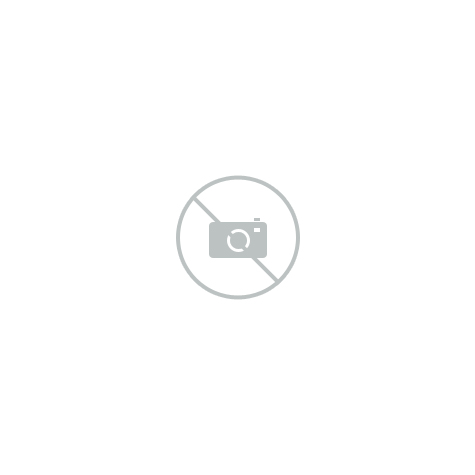
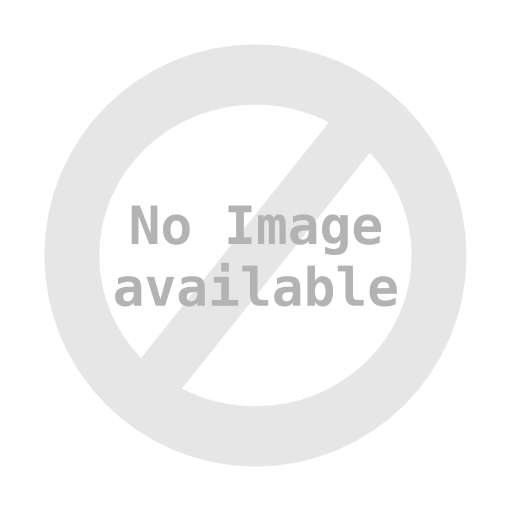
add image loader

diff --git a/cms/_lib/pages/asset/assetCategory_detail.js b/cms/_lib/pages/asset/assetCategory_detail.js
@@ -30,6 +30,8 @@ this.main.requestMainList = function(data){
 	if(!data){
 		var data = new Object({limit:limit});
 	}
+	$("div.mainNotification").removeClass("hidden");
+	$("div.mainNotification").html("<i class='fa fa-spin fa-spinner'></i> Retrieving Asset Detail..");
 	helper_API.sendXHR({
 		action:"asset get",
 		path:"/assets/"+id,
@@ -43,15 +45,15 @@ this.main.getList_handler = function(result){
 	try{
 		result = JSON.parse(result);
 	}catch(err){
-		$("div.div_alert").removeClass("hidden");
-		$("div.div_alert").html(result.responseText);
+		$("div.mainNotification").removeClass("hidden");
+		$("div.mainNotification").html(result.responseText);
 	}
 	if(String(result.responseStatus).toUpperCase() == "SUCCESS"){
-		$("div.div_alert").addClass("hidden");
+		$("div.mainNotification").addClass("hidden");
 		this.parseList(result);
 	}else{
-		$("div.div_alert").removeClass("hidden");
-		$("div.div_alert").html(result.responseText);
+		$("div.mainNotification").removeClass("hidden");
+		$("div.mainNotification").html(result.responseText);
 	}
 }
 this.main.parseList = function(data){
@@ -76,13 +78,13 @@ this.main.parseList = function(data){
 	if(data.thumbnail["/"].length>0){
 		for(var i=0; i<data.thumbnail["/"].length; i++){
 			var url = api_url+data.thumbnail.root_path+"/"+escape(data.thumbnail["/"][i]);
-			var thumbnail = "<img src='"+url+"?width=300' class=''/>";
+			var thumbnail = "<img src='"+url+"?height=200' class=''/>";
 			$("div.thumbnailContainer").append(thumbnail);
 		}
 		$('.fotorama').fotorama();
 	}else{
 		var url = "_lib/images/no_image_small.png";
-		var thumbnail = "<img src='"+url+"?width=300' class='assetThumbnailImg'/>";
+		var thumbnail = "<img src='"+url+"?height=200' class='assetThumbnailImg'/>";
 		$("div.thumbnailContainer").append(thumbnail);
 	}
 	
@@ -92,27 +94,34 @@ this.main.parseList = function(data){
 	// Listing files
 	$("input[name='link_download']").val(data.link_download);
 	$("[name=btn-download]").click(this.downloadAll_click_handler.bind(this));
-	
-	var list = this.renderFileList(data.zip["/"],"/");
-	var ctr=0;
-	for(var idx=0; idx<list.length; idx++){
-		ctr++;
-		var $item = $("tr#template-mainList-row").clone();
-		$item.attr("index", "file-"+idx);
-		$item.attr("id", idx);
-		list[idx].src = escape(list[idx].src);
-		$item.attr("src", data.zip.root_path+"/"+escape(list[idx]));
-		$item.find("[colName=index]").attr("width","24");
-		$item.find("[colName=index]").html(ctr);
-		$item.find("[colName=1]").html(list[idx]);
+	if(data.zip["/"]){
+		var list = this.renderFileList(data.zip["/"],"/");
+		var ctr=0;
+		for(var idx=0; idx<list.length; idx++){
+			ctr++;
+			var $item = $("tr#template-mainList-row").clone();
+			$item.attr("index", "file-"+idx);
+			$item.attr("id", idx);
+			list[idx].src = escape(list[idx].src);
+			$item.attr("src", data.zip.root_path+"/"+escape(list[idx]));
+			$item.find("[colName=index]").attr("width","24");
+			$item.find("[colName=index]").html(ctr);
+			$item.find("[colName=1]").html(list[idx]);
+			//
+			$item.find("button[name='btn-assetDownload']").click(this.assetDownload_click_handler.bind(this));
+			//
+			$("table#mainList tbody").append($item);
+		}
+		this.list_table = new ihl0700_cTable();
+		this.list_table.constructor({$table:$("table#mainList")});
+		this.list_table.update();
+	}else{
 		//
-		$item.find("button[name='btn-assetDownload']").click(this.assetDownload_click_handler.bind(this));
-		//
-		$("table#mainList tbody").append($item);
+		$(".fileNotification").removeClass("hidden");
+		$(".fileNotification").html("<span>Unable to render file list: File count exceed 3000 files<br/>Note: You can still download the zip although it will take a while to prepare the zip file.</span>");
+		$("table#mainList").addClass("hidden");
+		console.log(data.zip.error);
 	}
-	this.list_table = new ihl0700_cTable();
-	this.list_table.constructor({$table:$("table#mainList")});
-	this.list_table.update();
 }
 
 this.main.renderFileList = function(obj, folder){

diff --git a/cms/_lib/pages/asset/asset_detail.js b/cms/_lib/pages/asset/asset_detail.js
@@ -187,7 +187,7 @@ this.main.form_reset = function(ev){
 		this.parseFileList(this.initialData.zip);
 		this.parseThumbnail(this.initialData);
 	}else{
-		$("select[name]").val(0);
+		$("select[name]").val("posm");
 		$("input[name]").val("");
 	}
 	$("input, select, textarea").prop("disabled",null);
@@ -317,6 +317,7 @@ this.main.zip_pluploader_complete_handler = function(up, file){
 		$("[name=btn-save],[name=btn-reset]").addClass("hidden");
 	}else{
 		this.show_status(true, "Create asset completed. Create another asset?", $(".submissionResult"));
+		$("[name=btn-create]").removeClass("hidden");
 	}
 }
 
@@ -334,45 +335,6 @@ this.main.form_submit = function(){
 	
 	// Submit asset
 	this.form_submit_asset();
-}
-
-this.main.save_handler = function(result){
-	/*
-	try{
-		var json = JSON.parse(result);
-		$("div.submissionResult").html(json.responseText);
-		var id = $("input[name=id]").val();
-		//
-		if(String(id) == "0" || id == ""){
-			$("div.submissionResult").html("Create asset success");
-			$("[name=btn-create]").removeClass("hidden");
-		}else{
-			$("div.submissionResult").html("Update asset success");
-			//
-			$("input, select, textarea").prop("disabled",null);
-			$("[editable=0]").prop("disabled",1);
-			//
-			$("[name=btn-reset]").removeClass("hidden");
-			$("[name=btn-save]").removeClass("hidden");
-		}
-	}catch(err){
-		$("div.submissionResult").html("Error: "+result.responseText);
-		$("input, select, textarea").prop("disabled",null);
-		$("[editable=0]").prop("disabled",1);
-		$("[name=btn-reset]").removeClass("hidden");
-		$("[name=btn-save]").removeClass("hidden");
-	}
-	$("div.submissionResult").removeClass("hidden");
-	*/
-}
-
-this.main.createAnother_click_handler = function(ev){
-	this.form_reset();
-	//
-	$("div.submissionResult").addClass("hidden");
-	$("[name=btn-create]").addClass("hidden");
-	$("[name=btn-reset]").removeClass("hidden");
-	$("[name=btn-save]").removeClass("hidden");
 }
 
 this.main.uploadFile_click_handler = function(ev){
@@ -400,6 +362,15 @@ this.main.uploadFile_click_handler = function(ev){
 
 this.main.uploadFile_handler = function(result){
 	console.log(result);
+}
+
+this.main.createAnother_click_handler = function(ev){
+	this.form_reset();
+	//
+	$("div.submissionResult").addClass("hidden");
+	$("[name=btn-create]").addClass("hidden");
+	$("[name=btn-reset]").removeClass("hidden");
+	$("[name=btn-save]").removeClass("hidden");
 }
 
 

diff --git a/cms/_lib/pages/asset/assetCategory_get.js b/cms/_lib/pages/asset/assetCategory_get.js
@@ -97,7 +97,6 @@ this.main.requestMainList = function(data){
 	});
 }
 this.main.getList_handler = function(result){
-	console.log(result);
 	try{
 		result = JSON.parse(result);
 	}catch(err){
@@ -168,20 +167,32 @@ this.main.renderListCard = function(data){
 	var list = data.data;
 	for(var idx=0; idx<list.length; idx++){
 		var $item = $("div#template-mainList_card-item").clone();
-		//console.log($item);
 		$item.attr("index", "card-"+idx);
 		$item.attr("id", list[idx].asset_id);
 		$item.attr("src", list[idx].link_download);
-		//$item.find("[colName=index]").html(offset+(idx+1));
 		for(n in list[idx]){
 			if(list[idx][n]=="") list[idx][n]="-"
 			$item.find("[colname="+n+"]").html(list[idx][n]);
 		}
-		//$item.find(".mainList_card-image img").attr("src", String(api_url+list[idx].collection.thumbnail));
 		
 		if(list[idx].thumbnail["/"] && list[idx].thumbnail["/"].length>0){
-			var url = api_url+list[idx].thumbnail.root_path+"/"+escape(list[idx].thumbnail["/"][0])+"?thumb=1";
-			$item.find(".mainList_card-image img").attr("src", url);
+			var url = api_url+list[idx].thumbnail.root_path+"/"+escape(list[idx].thumbnail["/"][0])+"?height=110";
+			//
+			list[idx].imageLoader = new Image();
+			list[idx].image_load_handler = function(){
+				this.$item.find(".mainList_card-image img").attr("src", this.imageLoader.src);
+				this.$item.find(".mainList_card-image img").attr("width", "auto");
+			}
+			list[idx].image_error_handler = function(){
+				this.$item.find(".mainList_card-image").css("background-color", "#fff");
+				this.$item.find(".mainList_card-image img").attr("src", "_lib/images/no_image.png");
+			}
+			list[idx].$item = $item;
+			list[idx].imageLoader.addEventListener("load", list[idx].image_load_handler.bind(list[idx]));
+			list[idx].imageLoader.addEventListener("error", list[idx].image_error_handler.bind(list[idx]));
+			list[idx].imageLoader.src = url;
+			console.log(list[idx].imageLoader);
+			console.log(url);
 		}
 		
 		//

diff --git a/cms/_lib/js/ihl0700/cTable/cTable.js b/cms/_lib/js/ihl0700/cTable/cTable.js
@@ -52,7 +52,7 @@ ihl0700_cTable = function(){
 		// Init initial params
 		var total = (opt && Number(opt.total)) ? opt.total : this.$table.find("tbody tr").length;
 		var page = (opt && Number(opt.page)) ? opt.page : 1;
-		var display = (opt && Number(opt.display)) ? opt.display : 10;
+		var display = (opt && Number(opt.display)) ? opt.display : 20;
 		var search = (opt && opt.search) ? opt.search : "";
 		var sorts = (opt && opt.sorts) ? opt.sorts : "";
 		//
@@ -84,7 +84,7 @@ ihl0700_cTable = function(){
 	this.setupWidget_display = function(){
 		this.$tc = this.$container.find("div.ihl0700_cTable_top");
 		//
-		this.$tc.prepend("<div class='ihl0700_cTable_display'><span>Display</span> <select><option>10</option><option>20</option><option>50</option></select></div>");
+		this.$tc.prepend("<div class='ihl0700_cTable_display'><span>Display</span> <select><option>20</option><option>50</option><option>100</option></select></div>");
 		this.$widget_display = this.$tc.find("div.ihl0700_cTable_display");
 		this.$widget_display.unbind();
 		this.$widget_display.change(display_change_handler.bind(this));

diff --git a/cms/_lib/pages/asset/asset_get.js b/cms/_lib/pages/asset/asset_get.js
@@ -103,7 +103,7 @@ this.main.parseList = function(data){
 		$item.find("[colName=7]").html(list[idx].owner);
 		//
 		if(list[idx].thumbnail && list[idx].thumbnail["/"].length>0){
-			$item.find("[colName='thumbnail'] img").attr("src", api_url+list[idx].thumbnail.root_path+"/"+escape(list[idx].thumbnail["/"][0])+"?thumb=1");
+			$item.find("[colName='thumbnail'] img").attr("src", api_url+list[idx].thumbnail.root_path+"/"+escape(list[idx].thumbnail["/"][0])+"?height=60");
 		}
 		//
 		$item.find("[name=btn-edit]").click(this.edit_click_handler.bind(this));

diff --git a/cms/application/views/pages/asset/assetCategory_detail.php b/cms/application/views/pages/asset/assetCategory_detail.php
@@ -13,7 +13,7 @@
 	
 		<div class="page-content">
 			
-			<div class="div_alert hidden" style="margin-bottom:5px;"></div>
+			<div class="mainNotification div_alert hidden" style="margin-bottom:5px;"></div>
 			<div class="assetCategoryDetail">
 				<input type="hidden" name="id" value="<?php echo($id);?>" disabled />
 				<input type="hidden" name="link_download" disabled />
@@ -94,6 +94,7 @@
 						<button name="btn-download" class="btn-blue"><i class="fa fa-download"></i> Download All (zip)</button>
 					</div>
 					<iframe class="hidden" name="assetFilesIframe"></iframe>
+					<div class="fileNotification div_alert hidden"></div>
 					<table id="mainList" class="table-standard">
 						<thead>
 							<tr>

diff --git a/cms/application/views/pages/asset/assetCategory_get.php b/cms/application/views/pages/asset/assetCategory_get.php
@@ -98,7 +98,7 @@
 		<div class="mainList_card-item-content">
 			<div class="mainList_card-image">
 				<table>
-					<tr><td valign="middle"><img src="_lib/images/no_image.png"></img></td></tr>
+					<tr><td valign="middle"><img width="24px" src="_lib/images/giphy.gif"></img></td></tr>
 				</table>
 			</div>
 			<div class="mainList_card-item-content-text">
